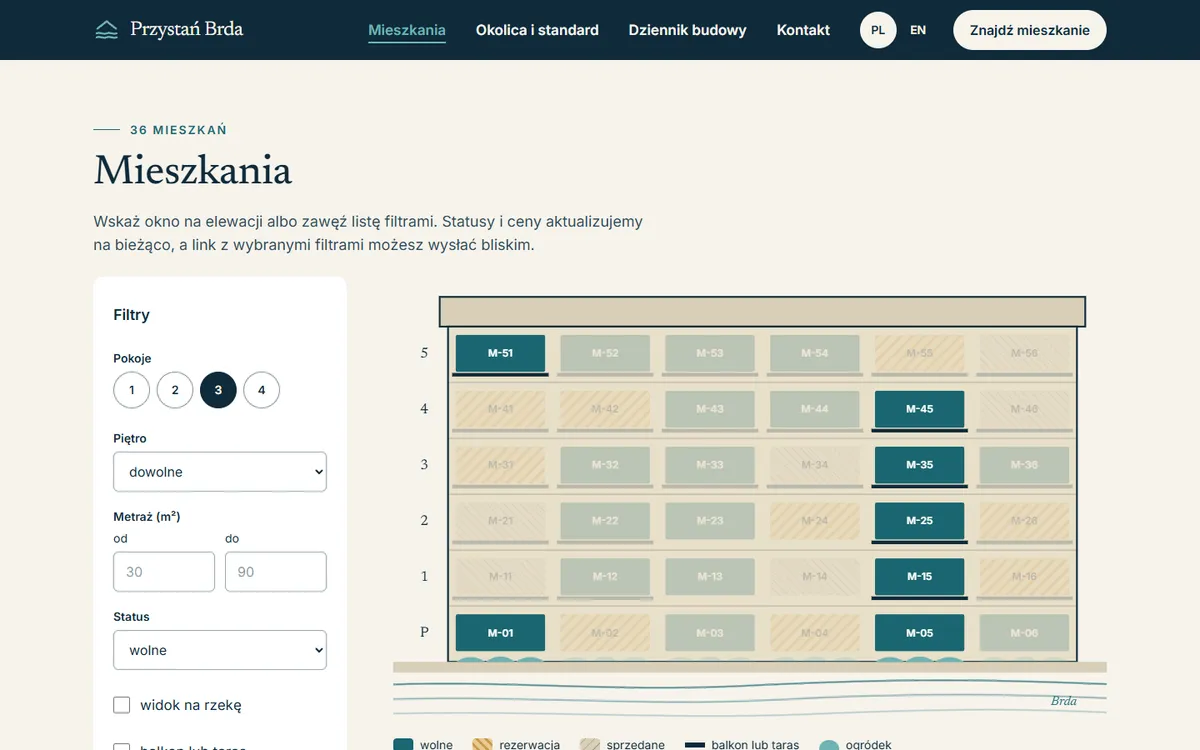
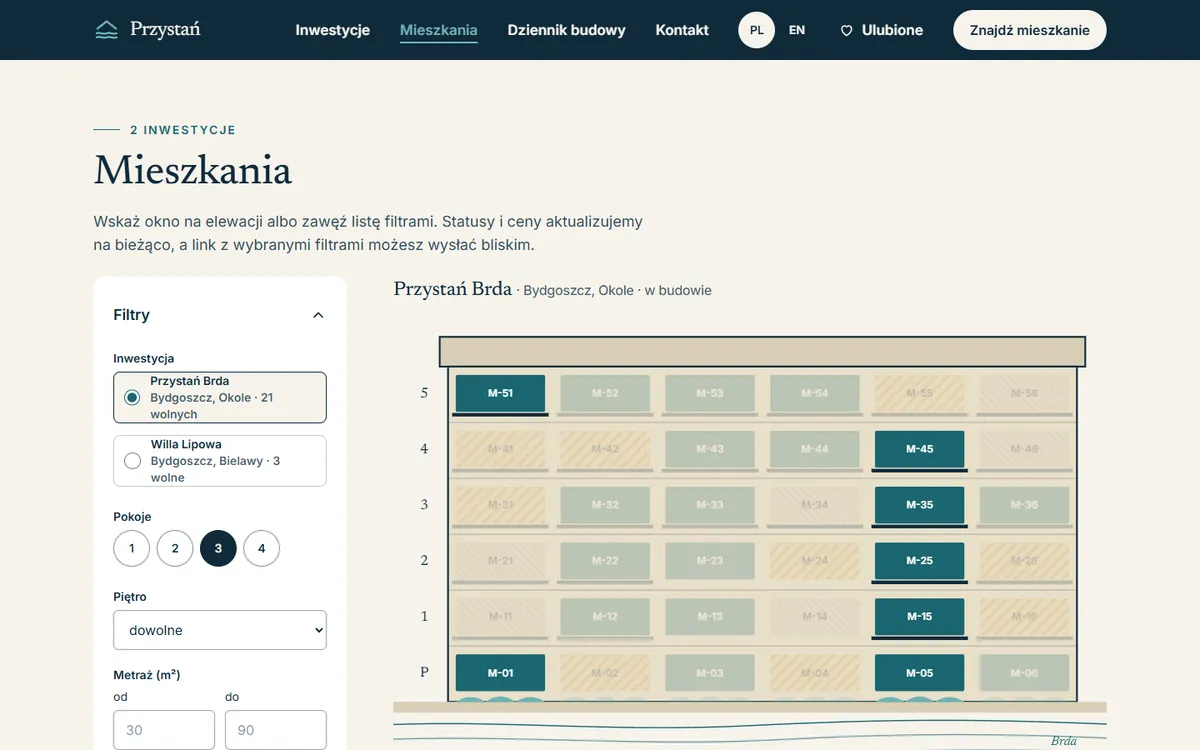
JSON-LD dla inwestycji, ulubione i kalkulator bez przesunięcia układu, README po rozbudowie

diff --git a/web/app/themes/przystan/resources/js/modules/ulubione.js b/web/app/themes/przystan/resources/js/modules/ulubione.js
@@ -39,7 +39,8 @@ function odswiez() {
 
   document.querySelectorAll('[data-ulubione]').forEach((b) => {
     const wlaczone = lista.includes(Number(b.dataset.ulubione));
-    b.hidden = false;
+    b.classList.remove('invisible');
+    b.removeAttribute('tabindex');
     b.setAttribute('aria-pressed', String(wlaczone));
     b.setAttribute('aria-label', wlaczone ? b.dataset.usun : b.dataset.dodaj);
   });

diff --git a/web/app/themes/przystan/app/seo.php b/web/app/themes/przystan/app/seo.php
@@ -7,6 +7,7 @@
 
 namespace App;
 
+use Przystan\Inwestycje\Inwestycja;
 use Przystan\Mieszkania\Mieszkanie;
 use Przystan\Ustawienia\Ustawienia;
 
@@ -131,7 +132,6 @@ add_action('wp_head', function () {
         return;
     }
     $u = Ustawienia::wszystkie();
-    $glowna = Strony::strefaGlowna();
     $organizacja = [
         '@type' => 'Organization',
         '@id' => home_url('/#organizacja'),
@@ -140,27 +140,33 @@ add_action('wp_head', function () {
         'telephone' => $u['telefon'],
         'email' => $u['email'],
     ];
-    $adres = [
-        '@type' => 'PostalAddress',
-        'streetAddress' => 'ul. Przykładowa 4',
-        'postalCode' => '85-000',
-        'addressLocality' => 'Bydgoszcz',
-        'addressCountry' => 'PL',
-    ];
     $graf = [$organizacja];
 
-    if (is_front_page()) {
-        $graf[] = [
+    // Inwestycja jako ApartmentComplex: na swojej stronie pełny opis, w karcie mieszkania jako „containedInPlace”.
+    $kompleks = static function (int $id, bool $pelny): array {
+        $inw = Inwestycja::zId($id);
+        $dane = [
             '@type' => 'ApartmentComplex',
-            '@id' => $glowna . '#inwestycja',
-            'name' => get_bloginfo('name'),
-            'description' => opis(),
-            'url' => $glowna,
-            'address' => $adres,
-            'numberOfAccommodationUnits' => 36,
-            'petsAllowed' => true,
-            'image' => obrazUdostepniania()['url'] ?? null,
+            '@id' => $inw['url'] . '#inwestycja',
+            'name' => $inw['nazwa'],
+            'url' => $inw['url'],
+            'address' => ['@type' => 'PostalAddress', 'addressLocality' => $inw['lokalizacja'], 'addressCountry' => 'PL'],
         ];
+        if ($pelny) {
+            $dane += [
+                'description' => $inw['zajawka'],
+                'numberOfAccommodationUnits' => $inw['mieszkan'] ?: null,
+                'numberOfAvailableAccommodationUnits' => $inw['mieszkan'] ? $inw['wolnych'] : null,
+                'image' => $inw['zdjecie'] ? wp_get_attachment_image_url($inw['zdjecie'], 'szeroki') : null,
+            ];
+        }
+
+        return array_filter($dane, fn($v) => $v !== null);
+    };
+
+    if (is_singular('inwestycja')) {
+        $graf[] = $kompleks(get_queried_object_id(), true);
+        $graf[] = okruszkiLd([[__('Inwestycje', 'przystan'), (string) get_post_type_archive_link('inwestycja')], [get_the_title(), (string) get_permalink()]]);
     }
 
     if (is_singular('mieszkanie')) {
@@ -173,7 +179,7 @@ add_action('wp_head', function () {
             'numberOfRooms' => $m['pokoje'],
             'floorLevel' => (string) $m['pietro'],
             'floorSize' => ['@type' => 'QuantitativeValue', 'value' => $m['metraz'], 'unitCode' => 'MTK'],
-            'containedInPlace' => ['@id' => $glowna . '#inwestycja', '@type' => 'ApartmentComplex', 'name' => get_bloginfo('name'), 'address' => $adres],
+            'containedInPlace' => $m['inwestycja'] ? $kompleks($m['inwestycja'], false) : null,
         ];
         if ($m['rzut']) {
             $mieszkanie['image'] = $m['rzut'];
@@ -188,7 +194,7 @@ add_action('wp_head', function () {
             'price' => $m['cena'] ?: null,
             'seller' => ['@id' => home_url('/#organizacja')],
         ];
-        $graf[] = okruszkiLd([[__('Mieszkania', 'przystan'), Strony::url(Strony::MIESZKANIA)], [$m['numer'], $m['url']]]);
+        $graf[] = okruszkiLd([[$m['inwestycja_nazwa'] ?: __('Mieszkania', 'przystan'), $m['inwestycja'] ? (string) get_permalink($m['inwestycja']) : Strony::url(Strony::MIESZKANIA)], [$m['numer'], $m['url']]]);
     }
 
     if (is_singular('post')) {

diff --git a/web/app/themes/przystan/resources/views/partials/ulubione-przycisk.blade.php b/web/app/themes/przystan/resources/views/partials/ulubione-przycisk.blade.php
@@ -1,9 +1,9 @@
-{{-- Przełącznik „ulubione” (localStorage, bez logowania). Bez JS jest ukryty, bo nie miałby czego zapisać. --}}
-<button type="button" hidden data-ulubione="{{ $id }}" aria-pressed="false"
+{{-- Przełącznik „ulubione” (localStorage, bez logowania). Do startu JS niewidoczny, ale zajmuje miejsce (bez przesunięcia układu). --}}
+<button type="button" data-ulubione="{{ $id }}" aria-pressed="false"
         data-dodaj="{{ sprintf(__('Dodaj %s do ulubionych', 'przystan'), $numer) }}"
         data-usun="{{ sprintf(__('Usuń %s z ulubionych', 'przystan'), $numer) }}"
         aria-label="{{ sprintf(__('Dodaj %s do ulubionych', 'przystan'), $numer) }}"
-        class="{{ $klasa ?? 'inline-flex min-h-11 items-center gap-2 rounded-full border-2 border-current px-4 font-semibold' }} group/ulub">
+        class="{{ $klasa ?? 'inline-flex min-h-11 items-center gap-2 rounded-full border-2 border-current px-4 font-semibold' }} group/ulub invisible" tabindex="-1">
   <svg class="size-5" viewBox="0 0 24 24" aria-hidden="true"><path d="M12 20s-7-4.4-7-10a4 4 0 0 1 7-2.6A4 4 0 0 1 19 10c0 5.6-7 10-7 10Z" fill="none" stroke="currentColor" stroke-width="2" stroke-linejoin="round" class="group-aria-pressed/ulub:fill-current"/></svg>
   @if (! empty($tekst))<span>{{ __('Ulubione', 'przystan') }}</span>@endif
 </button>

diff --git a/web/app/themes/przystan/resources/views/single-mieszkanie.blade.php b/web/app/themes/przystan/resources/views/single-mieszkanie.blade.php
@@ -54,11 +54,11 @@
               @endif
             </p>
           @endif
-          @if ($m['cena'] > 0)
-            @include('partials.kalkulator', ['cena' => $m['cena']])
-          @endif
           @if ($m['status'] !== 'sprzedane')
             <a href="#formularz" class="przycisk przycisk--jasny mt-6 w-full">{{ __('Zapytaj o to mieszkanie', 'przystan') }}</a>
+          @endif
+          @if ($m['cena'] > 0)
+            @include('partials.kalkulator', ['cena' => $m['cena']])
           @endif
         </div>
       </aside>

diff --git a/README.md b/README.md
@@ -1,11 +1,12 @@
-# Przystań Brda: strona inwestycji mieszkaniowej na WordPressie
+# Przystań: strona dewelopera mieszkaniowego na WordPressie
 
 **Demo:** https://przystan.sitebest.eu (PL) · https://przystan.sitebest.eu/en/ (EN)
 
-Strona fikcyjnej inwestycji: 36 mieszkań nad rzeką w Bydgoszczy. Zbudowana jako projekt do portfolio,
-żeby pokazać, jak robię strony na WordPressie bez page buildera: własny motyw, własna wtyczka, REST API,
-wielojęzyczność, SEO techniczne, dostępność i bezpieczeństwo. Firma, ceny i dane kontaktowe są wymyślone
-(strona ma `noindex` i notę „demo” w stopce).
+Strona fikcyjnego dewelopera z Bydgoszczy: trzy inwestycje (w budowie, gotowa, planowana), 52 mieszkania,
+PL i EN. Zbudowana jako projekt do portfolio, żeby pokazać, jak robię strony na WordPressie bez page buildera:
+własny motyw, własna wtyczka, relacje między typami treści, REST API, wielojęzyczność, SEO techniczne,
+dostępność, bezpieczeństwo i animacje, które nie psują wyniku PageSpeed. Firma, ceny i dane kontaktowe są
+wymyślone (strona ma `noindex` i notę „demo” w stopce).
 
 ![Strona główna](docs/zrzuty/glowna.webp)
 
@@ -13,6 +14,7 @@ wielojęzyczność, SEO techniczne, dostępność i bezpieczeństwo. Firma, ceny
 
 | Funkcja | Gdzie w kodzie |
 |---|---|
+| **Inwestycje i relacje**: typ treści „Inwestycja”, mieszkania i wpisy dziennika powiązane polem relacji; przy synchronizacji PL→EN relacja wskazuje angielską wersję inwestycji (`pll_translate_post_meta`); lista, strona inwestycji z harmonogramem, „powiadom mnie” dla planowanej | [`Inwestycje/`](web/app/plugins/przystan-core/src/Inwestycje/), [`single-inwestycja.blade.php`](web/app/themes/przystan/resources/views/single-inwestycja.blade.php) |
 | **Rysowana elewacja**: budynek w SVG generowany w PHP z danych WordPressa; każde okno to link do karty mieszkania z pełnym opisem dla czytników ekranu; kolor + wzór pokazują status | [`components/elewacja.blade.php`](web/app/themes/przystan/resources/views/components/elewacja.blade.php), [`app/Elewacja.php`](web/app/themes/przystan/app/Elewacja.php) |
 | **Wyszukiwarka mieszkań** przez własny endpoint REST i `WP_Query` (`meta_query`), bez przeładowania strony; filtry w adresie URL; działa też bez JavaScriptu | [`Rest/MieszkaniaController.php`](web/app/plugins/przystan-core/src/Rest/MieszkaniaController.php), [`Mieszkania/Wyszukiwarka.php`](web/app/plugins/przystan-core/src/Mieszkania/Wyszukiwarka.php), [`modules/wyszukiwarka.js`](web/app/themes/przystan/resources/js/modules/wyszukiwarka.js) |
 | **Formularz zapytania** z walidacją po stronie serwera, antyspamem bez CAPTCHA (pułapka, podpisany czas, limit IP) i wersją bez JS (`admin-post.php`) | [`Zapytania/`](web/app/plugins/przystan-core/src/Zapytania/) |
@@ -21,7 +23,12 @@ wielojęzyczność, SEO techniczne, dostępność i bezpieczeństwo. Firma, ceny
 | **PL + EN (Polylang)**: tłumaczone treści, synchronizacja liczb i statusu między językami, osobne adresy (`/mieszkania/m-35/`, `/en/apartments/m35/`), pliki `.po/.mo` z poprawnymi polskimi formami liczby mnogiej | [`Polylang/Integracja.php`](web/app/plugins/przystan-core/src/Polylang/Integracja.php), [`languages/`](web/app/plugins/przystan-core/languages/) |
 | **SEO techniczne bez wtyczki SEO**: tytuły, meta description, Open Graph, JSON-LD (`ApartmentComplex`, `Apartment` + `Offer`, `BlogPosting`, `BreadcrumbList`), mapa strony, hreflang | [`app/seo.php`](web/app/themes/przystan/app/seo.php) |
 | **Bezpieczeństwo**: XML-RPC wyłączony, lista użytkowników w REST ukryta, brak wyliczania autorów, CSP i Permissions-Policy, escapowanie i nonce w kodzie | [`mu-plugins/przystan-bezpieczenstwo.php`](web/app/mu-plugins/przystan-bezpieczenstwo.php) |
+| **Ulubione i porównanie**: serce przy mieszkaniu (localStorage, bez logowania i ciasteczek), porównanie parametrów obok siebie przez REST (`ids[]`), wspólne dla PL i EN | [`modules/ulubione.js`](web/app/themes/przystan/resources/js/modules/ulubione.js), [`modules/porownanie.js`](web/app/themes/przystan/resources/js/modules/porownanie.js) |
+| **Kalkulator raty** na karcie mieszkania (rata równa, orientacyjnie, opisany jako nie-oferta) | [`modules/kalkulator.js`](web/app/themes/przystan/resources/js/modules/kalkulator.js) |
+| **Ruch**: hero „rysunek z rzeki” (kreska rysuje budynek, okna zapalają się piętrami, sam CSS), falujące odbicie w rzece liczone w **Workerze na OffscreenCanvas** (kręgi od kursora i palca, pauza poza ekranem, przycisk zatrzymania), elewacja zapalająca okna przy przewijaniu, przejścia między stronami przez **View Transitions API** | [`partials/hero-szkic.blade.php`](web/app/themes/przystan/resources/views/partials/hero-szkic.blade.php), [`modules/hero.js`](web/app/themes/przystan/resources/js/modules/hero.js), [`modules/odbicie-worker.js`](web/app/themes/przystan/resources/js/modules/odbicie-worker.js), [`modules/ruch.js`](web/app/themes/przystan/resources/js/modules/ruch.js) |
 | **Ustawienia inwestycji** na Settings API (bez płatnego ACF Pro): kontakt, termin, adres i klucz webhooka | [`Ustawienia/`](web/app/plugins/przystan-core/src/Ustawienia/) |
+
+![Inwestycje](docs/zrzuty/inwestycje.webp)
 
 <p>
   <img src="docs/zrzuty/wyszukiwarka.webp" alt="Wyszukiwarka z elewacją i filtrami" width="64%">
@@ -42,6 +49,7 @@ wielojęzyczność, SEO techniczne, dostępność i bezpieczeństwo. Firma, ceny
 ```
 config/                          konfiguracja Bedrocka (application.php + środowiska)
 web/app/plugins/przystan-core/   WTYCZKA: dane i logika (działa z dowolnym motywem)
+  src/Inwestycje/                typ treści „Inwestycja”, pola (status, budynek, harmonogram), dane
   src/Mieszkania/                typ treści, pola ACF, wyszukiwarka (WP_Query), dane mieszkania
   src/Rest/                      endpointy REST: GET /mieszkania, POST /zapytania
   src/Zapytania/                 formularz: walidacja, antyspam, zapis, wersja bez JS
@@ -51,7 +59,8 @@ web/app/plugins/przystan-core/   WTYCZKA: dane i logika (działa z dowolnym moty
 web/app/themes/przystan/         MOTYW: tylko wygląd
   app/                           setup, SEO, composery widoków (dane dla Blade), geometria elewacji
   resources/views/               szablony Blade
-  resources/js/modules/          menu, elewacja, wyszukiwarka, formularz (czysty JS, ~2 KB gzip)
+  resources/js/modules/          menu, elewacja, wyszukiwarka, formularz, ulubione, kalkulator, ruch, hero + Worker
+                                 (czysty JS, bez bibliotek: ~5 KB gzip + Worker 1,7 KB)
   resources/css/app.css          system wizualny w Tailwind 4 (@theme)
 web/app/mu-plugins/              hardening bezpieczeństwa
 scripts/                         seed treści, wdrożenie, testy dymne, rzuty, tłumaczenia
@@ -73,7 +82,7 @@ wp core install --url=http://localhost:8810 --title="Przystań Brda" --admin_use
 wp language core install pl_PL en_GB
 wp plugin activate advanced-custom-fields polylang przystan-core && wp theme activate przystan
 npm install && npm run rzuty     # rzuty mieszkań (SVG → WebP); zdjęcia są już w scripts/seed-media
-wp eval-file scripts/seed.php   # strony, 36 mieszkań × 2 języki, dziennik budowy, menu, ustawienia
+wp eval-file scripts/seed.php   # 3 inwestycje, strony, 52 mieszkania × 2 języki, dziennik budowy, menu, ustawienia
 wp rewrite flush
 wp server --port=8810
 ```
@@ -81,7 +90,7 @@ wp server --port=8810
 Testy i styl:
 
 ```bash
-vendor/bin/pest                 # logika wtyczki: filtry, zapytanie WP_Query, walidator, podpis HMAC, antyspam
+vendor/bin/pest                 # filtry, zapytanie WP_Query, walidator, podpis HMAC, antyspam, geometria elewacji
 vendor/bin/pint --test          # styl kodu
 scripts/check.sh                # testy dymne działającej strony (adresy, SEO, REST, nagłówki)
 ```
@@ -106,6 +115,7 @@ X-Przystan-Signature: sha256=<HMAC-SHA256("timestamp.treść", klucz)>
   "mieszkanie": { "numer": "M-35", "pietro": 3, "pokoje": 3, "metraz": 62.7, "cena": 662000, "status": "wolne", "url": "…" } }
 ```
 
+Zapis na powiadomienie o planowanej inwestycji ma zdarzenie `powiadomienie.zapis` i pole `inwestycja`.
 Odbiorcą może być n8n, Make, Zapier albo endpoint CRM. Bez adresu zapytania tylko zapisują się w panelu.
 
 ## Wdrożenie
@@ -124,16 +134,21 @@ języki, cache widoków Blade, `rewrite flush`. WP-Cron uruchamia systemowy cron
   nie trzeba ręcznie obrysowywać okien, a każde okno jest dostępne z klawiatury.
 - **Polylang zamiast WPML.** Darmowy, a kod nie zależy od wtyczki: ciągi przez `__()` + `.po/.mo`,
   integracja w jednej klasie. Darmowy Polylang nie tłumaczy sluga typu treści, więc `/en/apartments/` to własna reguła rewrite.
+- **Elewacja parametryczna.** Liczba kondygnacji i lokali na piętro to pola inwestycji, więc nowy budynek
+  nie wymaga zmian w kodzie motywu.
+- **Animacje bez bibliotek i bez kosztu dla LCP.** Nagłówek jest widoczny od pierwszej klatki; rysunek w hero to CSS,
+  a ciężka część (odbicie w wodzie) startuje po pierwszych sekundach w wątku roboczym. Ruch automatyczny ma pauzę
+  i sam się zatrzymuje (WCAG 2.2.2), a przy „ogranicz ruch” strona od razu pokazuje stan końcowy.
 - **Formatowanie liczb we wtyczce.** Ceny i metraże formatuje wtyczka według języka strony (PL „670 000 zł”, EN „670,000 zł”).
 
 ## Jakość
 
-- **Lighthouse (telefon):** dostępność 100, dobre praktyki 100, SEO 100 z wyjątkiem celowego `noindex`.
-  Wydajność na produkcji: zob. sekcja niżej.
+- **Lighthouse na produkcji (telefon, z animacjami):** wydajność 93-100, dostępność 100, dobre praktyki 100;
+  SEO 100 z wyjątkiem celowego `noindex`. Komputer: 100/100/100. Total Blocking Time 0-10 ms.
 - **WCAG 2.2 AA:** kontrast sprawdzony dla każdej pary kolorów, skip link, widoczny fokus, etykiety i błędy pól
   powiązane przez `aria-describedby`, komunikaty w `aria-live`, status mieszkania kolorem i kształtem, cele dotykowe ≥ 24 px.
 - **Wydajność:** fonty lokalnie (bez Google Fonts), WebP w kilku rozmiarach (`srcset`), hero z `fetchpriority="high"`,
-  bez jQuery, emoji, oEmbed i stylów bloków poza wpisami, JS ~2 KB gzip, CSS ~13 KB gzip, zero zewnętrznych żądań.
+  bez jQuery, emoji, oEmbed i stylów bloków poza wpisami, JS ~5 KB gzip, CSS ~14 KB gzip, zero zewnętrznych żądań.
 
 ## Moja rola
 
@@ -146,10 +161,12 @@ i odpowiadam za wynik na produkcji. Zdjęcia wygenerowane w Google Flow, rzuty m
 
 ### English summary
 
-A WordPress site for a fictional riverside apartment development, built to show custom WordPress work without
-page builders: **Bedrock + Sage 11 (Blade, Tailwind 4, Vite)**, a custom plugin (custom post type + ACF fields
+A WordPress site for a fictional residential developer with three developments, built to show custom WordPress
+work without page builders: **Bedrock + Sage 11 (Blade, Tailwind 4, Vite)**, a custom plugin (custom post type + ACF fields
 in code, REST search endpoint using `WP_Query`, enquiry form with HMAC-signed webhook and retries via WP-Cron,
 Settings API page), **Polylang** (PL/EN), technical SEO without an SEO plugin (JSON-LD, Open Graph, hreflang,
-sitemap), WCAG 2.2 AA and security hardening. The interactive facade is an SVG generated in PHP from WordPress data:
+sitemap), WCAG 2.2 AA and security hardening. Developments, apartments and diary posts are linked custom post types;
+there are favourites with side-by-side comparison, a mortgage calculator, and motion without libraries (a CSS
+line-drawing intro, a rippling river reflection rendered in a Web Worker on OffscreenCanvas, View Transitions). The interactive facade is an SVG generated in PHP from WordPress data:
 every window is a keyboard-accessible link to the apartment page. Built with Claude Code as a tool; I make the
 decisions, review and test every change, and deploy.
